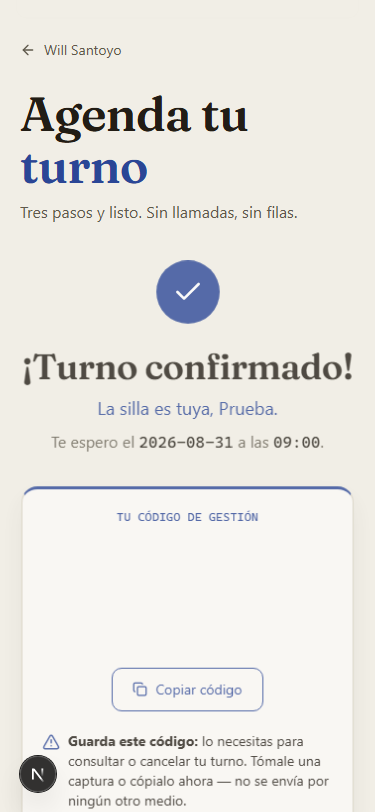
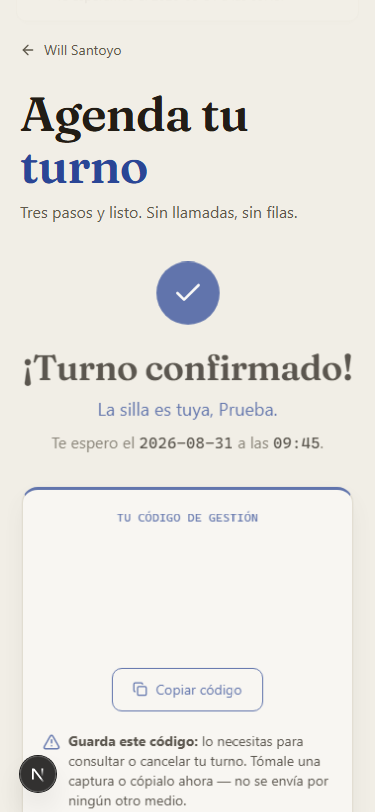
fix: recuperar el dev server y verificar el render de verdad
El servidor de desarrollo quedo sirviendo HTML sin CSS: correr `npm run build`
con `npm run dev` activo sobreescribe frontend/.next y rompe los chunks del dev
(MODULE_NOT_FOUND en .next/server/app/page.js). Las capturas de la Fase 6 se
tomaron ANTES de ese build, asi que la verificacion que reporte estaba vencida.

- .next limpiado y dev server relanzado.
- Nuevo e2e/fase6-verificar.mjs: comprueba ESTILOS COMPUTADOS en Chromium real
  (bg del body, numero de reglas CSS cargadas, consola y respuestas fallidas)
  en /, /agendar, /hoy y /admin/login — no la simple presencia del <link>.
- Aviso en el README para no repetir la colision build/dev.

Verificado tras el arreglo: las 4 rutas pintan (bg rgb(241,238,230), 205 reglas),
sin errores de consola, y reserva 93GPFZ4F completa de punta a punta en 375px.

diff --git a/README.md b/README.md
@@ -96,3 +96,8 @@ cd frontend && npm test                  # Vitest
    de exclusión (`EXCLUDE USING gist`) sobre el rango horario, además de la
    validación de aplicación (ver REFACTOR_PLAN.md §Bloque 5 para la divergencia
    SQLite en desarrollo).
+
+> ⚠ **No corras `npm run build` mientras `npm run dev` está activo:** ambos
+> escriben en `frontend/.next/` y el build deja al servidor de desarrollo
+> sirviendo HTML sin CSS (`MODULE_NOT_FOUND` en los chunks). Si pasa: detén el
+> dev server, borra `.next` y vuelve a arrancarlo.
